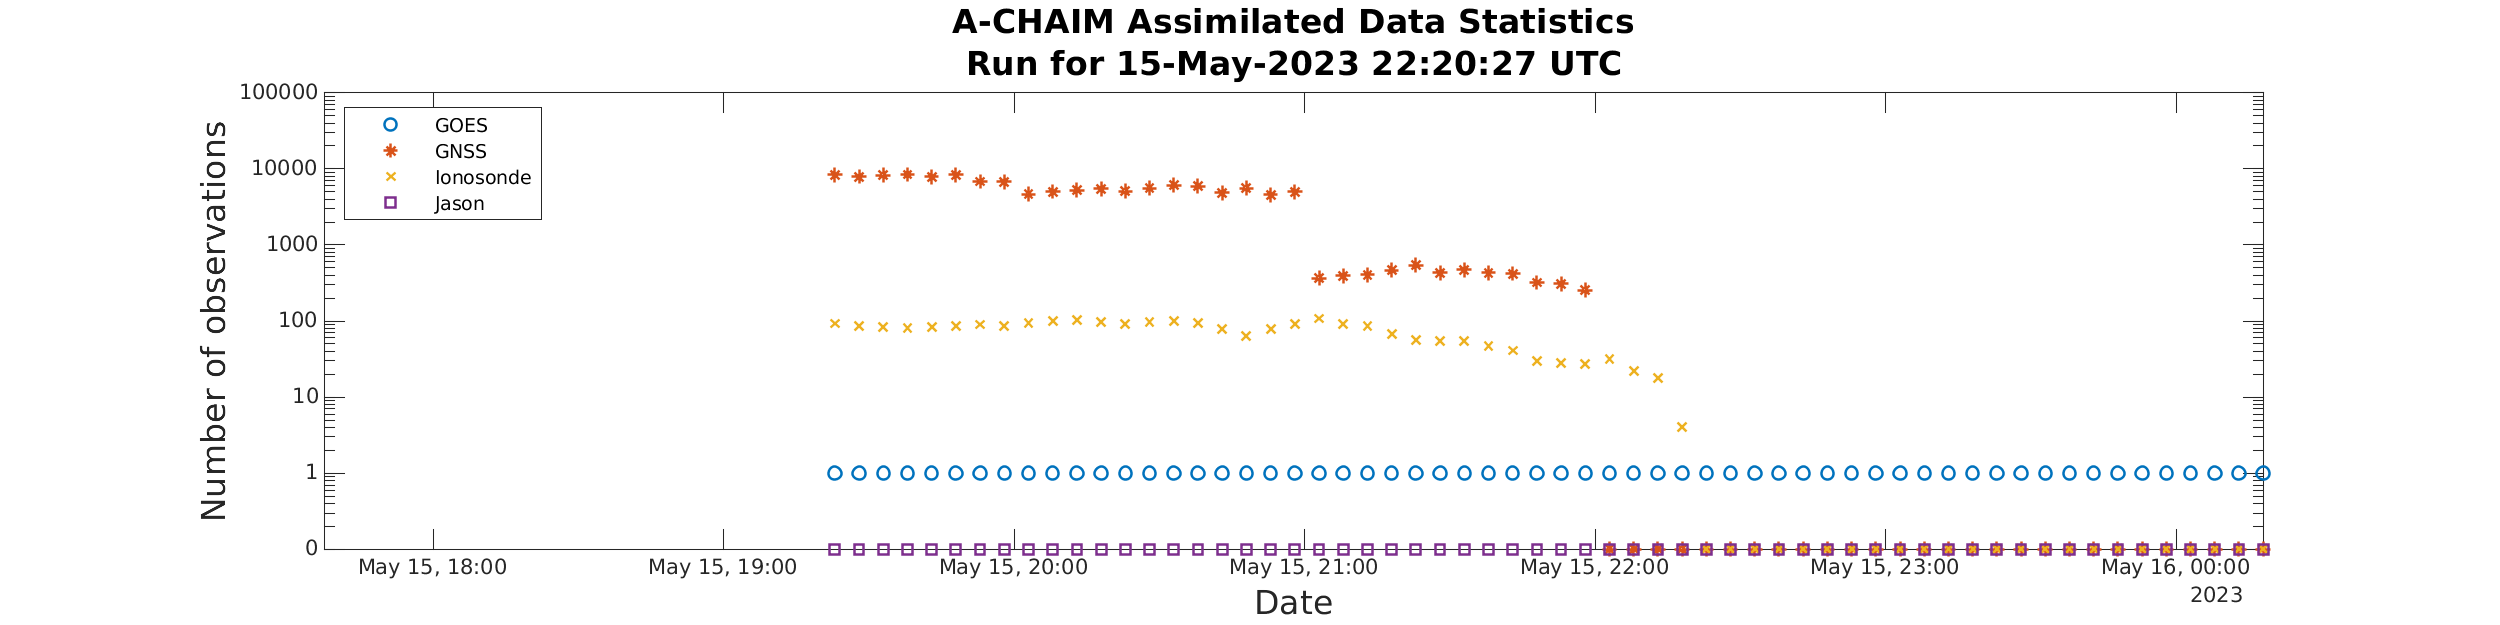
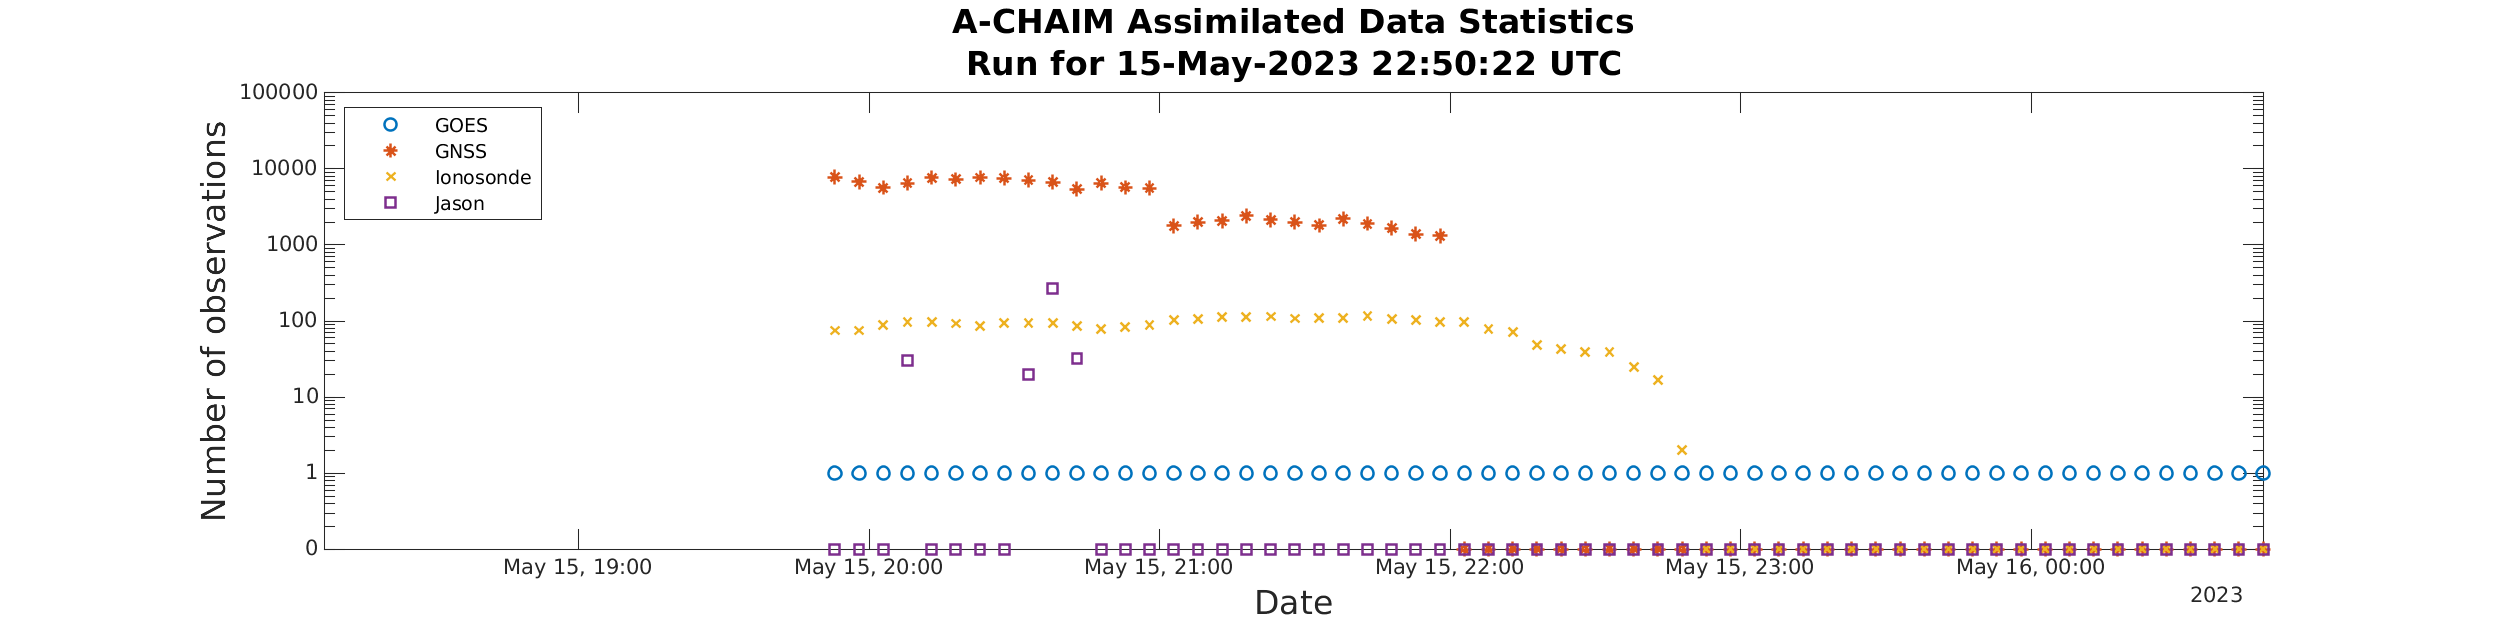
update 2023-05-15 23:16:03

diff --git a/_posts/2023-05-15-22-50-22.md b/_posts/2023-05-15-22-50-22.md
@@ -1,8 +1,8 @@
 ---
 layout: post
-title: "2023-05-15 22:20:27"
+title: "2023-05-15 22:50:22"
 subtitle: "ModelData Issues: 2; A-CHAIM System Issues: 1"
-
+permalink: /latest/
 ---
 
 ![]({{ "/assets/img/achaimDataStatsShort-2313522.png" | relative_url }})
@@ -17,10 +17,10 @@ subtitle: "ModelData Issues: 2; A-CHAIM System Issues: 1"
 ### ModelData Issues:  
   
 {: .box-warning}  
- ModelData report for 15-May-2023 22:20:14   
+ ModelData report for 15-May-2023 22:50:10   
  /home/chaim/ACHAIM_SERVER/A-CHAIM/modelData/2023/135/22/modelData.mat   
- 0% of all possible stations for KASI were downloaded. x3288   
- 0% of all possible stations for CHAIN were downloaded. x2249   
+ 0% of all possible stations for KASI were downloaded. x3289   
+ 0% of all possible stations for CHAIN were downloaded. x2250   
   
 ### A-CHAIM System Issues:  
   
